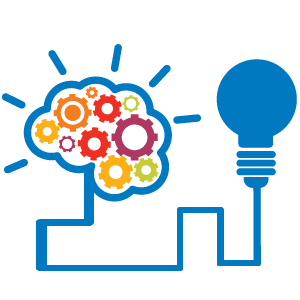
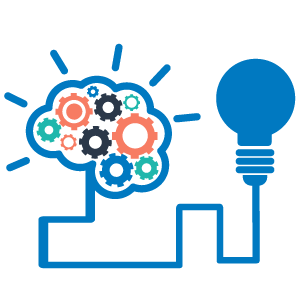
update goals graphics

diff --git a/index.html b/index.html
@@ -187,21 +187,21 @@
         <header>
           <h1>Referralclix helps you with your top goals</h1>
         </header>
-        <section class="center-text">
+        <section class="topgoals center-text">
           <div class="fourth">
-            <img src="images/awareness.png"/>
+            <img src="images/goals1.png"/>
             <h3>Awareness</h3>
           </div>
           <div class="fourth">
-            <img src="images/acquisition.png"/>
+            <img src="images/goals2.png"/>
             <h3>Low Cost Customer Acquisition</h3>
           </div>
           <div class="fourth">
-            <img src="images/conversion.png"/>
+            <img src="images/goals3.png"/>
             <h3>Conversion</h3>
           </div>
           <div class="fourth last">
-            <img src="images/retention.png"/>
+            <img src="images/goals4.png"/>
             <h3>Retention</h3>
           </div>
         </section>

diff --git a/css/style.css b/css/style.css
@@ -659,8 +659,8 @@ input {
 
 /*Top Goals*/
 .topgoals h3{
-  padding: 15px 0;
-  color: #0079c1;
+  padding: 20px 0;
+  color: #2b3849;
   font-size: 1.1em;
 }
 /*How Do Marketers...*/
@@ -692,7 +692,7 @@ input {
   margin: 0;
   padding: 0 0 20px;
 }
-.features img {
+.features .headerimg {
   width: 80%;
 }
 .featurelist section {
